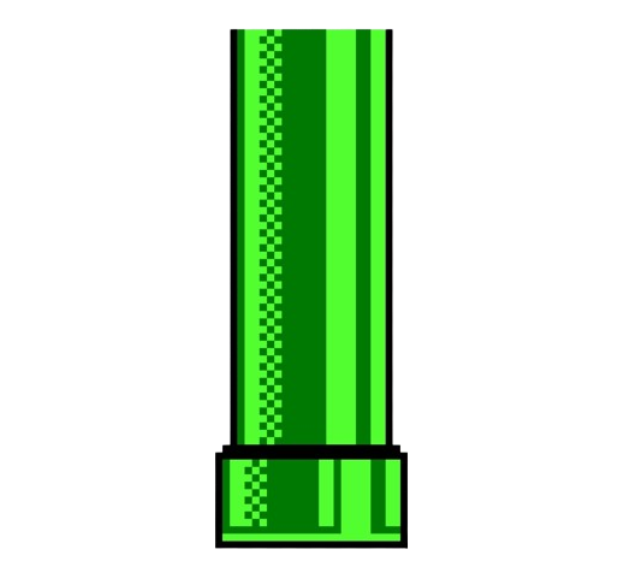
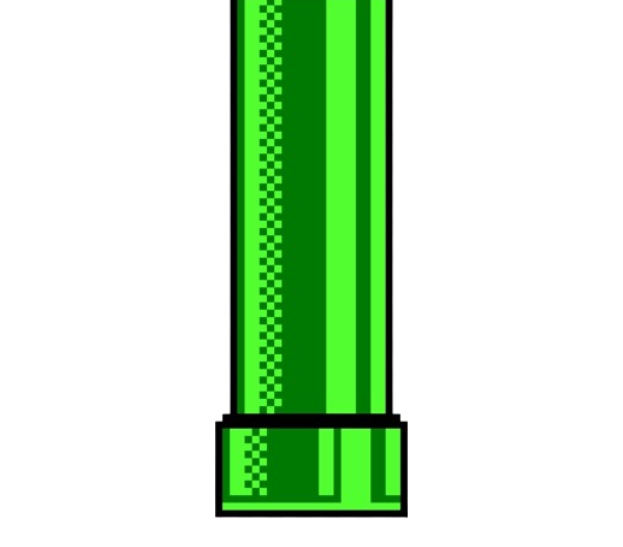
editando as imagens

Changed region(s): [[0.3355, 0.5283, 0.6709, 0.9634], [0.366, 0.0, 0.6404, 0.4973]]

diff --git a/FlapPlathpus/MainPage.xaml b/FlapPlathpus/MainPage.xaml
@@ -20,13 +20,14 @@
                     <Image x:Name="Imgcanocima"
                     Source="canoprabaixo.png"
                     HorizontalOptions="End"
-                    WidthRequest="300"
-                    HeightRequest="200"
+                    WidthRequest="100"
+                    HeightRequest="100"
                     VerticalOptions="Start" />
                   
                     <Image x:Name="Imgcanobaixo"
                     Source="canodiferente.png"
-                    WidthRequest="300"
+                    WidthRequest="100"
+                    HeightRequest="100"
                     HorizontalOptions="End"
                     VerticalOptions="End" />
                    
